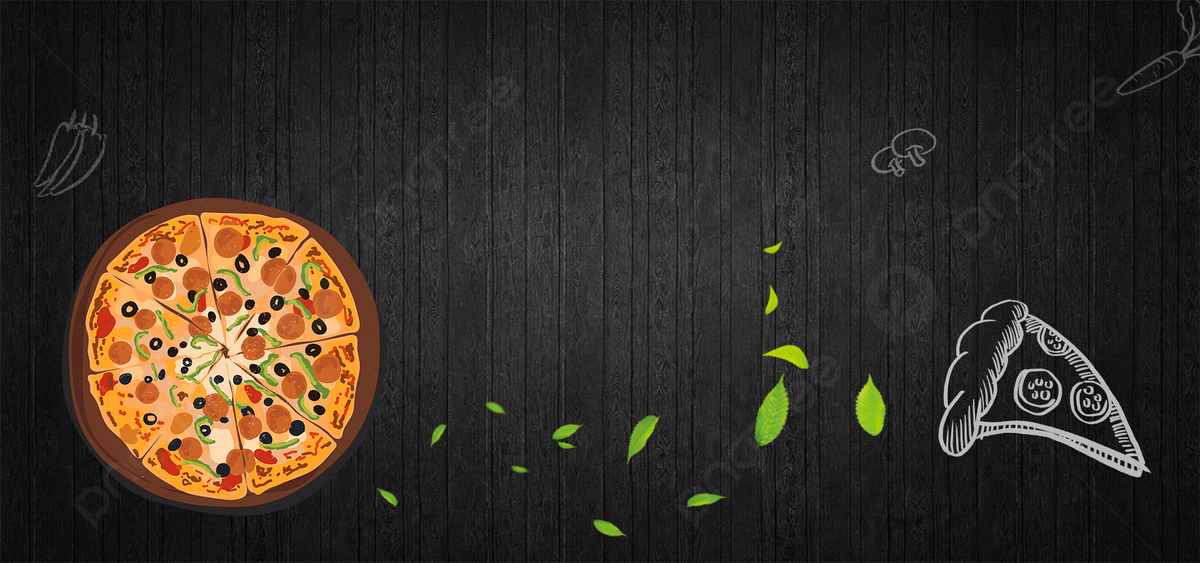
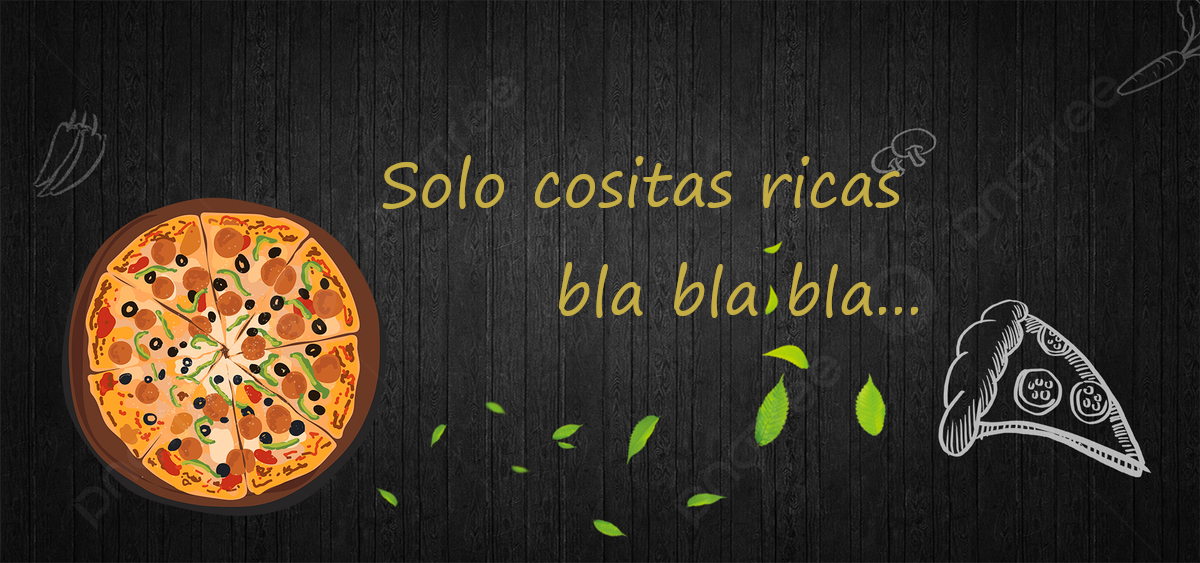
Version 0.2

Changed region(s): [[0.3083, 0.2718, 0.7708, 0.3925], [0.4625, 0.4529, 0.7708, 0.5737]]

diff --git a/index.html b/index.html
@@ -1,27 +1,29 @@
 <!DOCTYPE html>
-<html lang="en">
+<html lang="es">
 <head>
     <meta charset="UTF-8">
     <meta name="viewport" content="width=device-width, initial-scale=1.0">
     <link rel="stylesheet" href="style.css">
-    <title>Document</title>
+    <link rel="stylesheet" href="https://cdnjs.cloudflare.com/ajax/libs/font-awesome/6.0.0-beta3/css/all.min.css">
+    <title>Pizzarriba</title>
 </head>
 <body>
+    <img class="background" src="img/backgroung.png" alt="">
     <header>
         <div><a href="index.html"><img class="logo" src="img/logo.png" alt=""></a></div>
         <nav>
             <ul>
-                <li><a href="">Menu</a></li>
-                <li><a href="">Pedinos</a></li>
-                <li><a href="">Nosotros</a></li>
-                <li><a href="">Contacto</a></li>
+                <li><a href="#">Menu</a></li>
+                <li><a href="#">Pedinos</a></li>
+                <li><a href="#">Nosotros</a></li>
+                <li><a href="#pie">Contacto</a></li>
             </ul>
         </nav>
     </header>
 
     <main>
        <section class="galeria">
-            <h2>Cositas ricas</h2>
+            
             <div class="slider">    
                 <div class="slider--iner">
                     <img src="img/slide_3.png" alt="">
@@ -34,20 +36,20 @@
         <section class="promos">
             <h2>Promos</h2>
             <div class="cards">
-                <div class="card">
+                <div class="card-1">
                     <p>Familiar</p>
-                    <a href="#"><img src="img/promo_1.png" alt=""></a>
+                    <a href="#familiar"><img src="img/promo_1.png" alt=""></a>
                 </div>
-                <div class="card">
+                <div class="card-2">
                     <p>Para 2</p>
                     <a href="#"><img src="img/promo_2.png" alt=""></a>
                 </div>
-                <div class="card">
+                <div class="card-3">
                     <p>Bajonera</p>
                     <a href="#"><img src="img/promo_3.png" alt=""></a>
                 </div>
-                <div class="card">
-                    <p>Bebida</p>
+                <div class="card-4">
+                    <p>Bebidas</p>
                     <a href="#"><img src="img/promo_4.png" alt=""></a>
                 </div>
             </div>
@@ -81,9 +83,12 @@
         </section>
     </main>
 
-    <footer>
-
+    <footer id="pie" class="social-media">
+        <div class="fb"><i class="fa-brands fa-square-facebook"></i><span>Pizzarriba</span></div>
+        <div class="ig"><i class="fa-brands fa-square-instagram"></i><span>Pizzarriba</span></div>
+        <div class="wpp"><i class="fa-brands fa-whatsapp"></i><span>0123456789</span></div>
     </footer>
     <script src="script.js"></script>
+    <script src="https://kit.fontawesome.com/36af3a04fe.js" crossorigin="anonymous"></script>
 </body>
 </html>

diff --git a/style.css b/style.css
@@ -5,10 +5,11 @@
     text-decoration: none;
     list-style: none;
 }
-body {
-    background: url(img/backgroung.png), no-repeat;
-    background-size: cover;
-    overflow-x: hidden;
+.background {
+    position: fixed;
+    width: 100vw;
+    height: 100vh;
+    z-index: -1;
 }
 
 header {
@@ -19,6 +20,10 @@ header {
     background-color: rgba(0, 0, 0, 0.9);
     align-items: center;
     justify-content: center;
+}
+
+i, p, span {
+    color: rgb(239, 221, 21);
 }
 
 .logo {
@@ -45,7 +50,7 @@ main {
 
 h2 {
     color: white;
-    margin: 5px;
+    margin: 10px;
     text-align: center;
 }
 
@@ -62,6 +67,7 @@ p {
 }
 
 .slider {
+    margin-top: 20px;
     display: flex;
     width: 90vw;
     justify-content: center;
@@ -85,15 +91,20 @@ img {
     flex-wrap: wrap;
     justify-content: center;
 }
-.card {
+.card-1, .card-2, .card-3, .card-4 {
     display: flex;
     flex-direction: column;
     align-items: center;
-    width: 45vw;
-    height: 45vw;
+    width: 40vw;
+    height: 40vw;
     margin: 10px;
     background-color: rgba(0, 0, 0, 0.9);
     overflow: hidden;
+    transition: transform 0.3s ease-in;
+}
+
+.card:hover {
+    transform: scale(1.3);
 }
 
 .comentarios {
@@ -115,20 +126,52 @@ img {
 }
 
 .commit img {
-    width: 70px;
+    width: 50px;
+    margin: 10px;
 }
 
-footer {
+.social-media {
+    display: flex;
+    align-items: center;
+    justify-content: space-around;
     position: fixed;
     bottom: 0;
     width: 100vw;
     height: 30px;
     background-color: rgba(0, 0, 0, 0.9);
     margin-top: 35px;
+    transition: background-color 1s ease;
+
 }
+
+.fa-brands {
+    margin: 10px;
+}
+
+.social-media:target {
+    animation: bounce 5s ease-in;    
+}
+
+/* .social-media:target div span, .social-media:target div i {
+    color: rgb(239, 221, 21)
+} */
+
+@keyframes bounce {
+    0%, 100% {
+        transform: translateY(0);
+        
+        
+    }
+    30%, 70% {
+        transform: translateY(-50vh);
+        background-color: #f0f0f0;
+    }
+    
+}
+
 @media (min-width: 750px){
     .slider {
         width: 600px;
-        overflow: ;
+        
     }
 }

diff --git a/prueba.html b/prueba.html
@@ -1,0 +1,23 @@
+<!DOCTYPE html>
+<html lang="en">
+<head>
+    <meta charset="UTF-8">
+    <meta name="viewport" content="width=device-width, initial-scale=1.0">
+    <title>Cambiar Estilo con :target</title>
+    <link rel="stylesheet" href="prueba.css">
+</head>
+<body>
+    <div class="content">
+        <a href="#section1">Ir a la Sección 1</a>
+        <a href="#section2">Ir a la Sección 2</a>
+    </div>
+    <div id="section1" class="section">
+        <h2>Sección 1</h2>
+        <p>Contenido de la sección 1.</p>
+    </div>
+    <div id="section2" class="section">
+        <h2>Sección 2</h2>
+        <p>Contenido de la sección 2.</p>
+    </div>
+</body>
+</html>

diff --git a/prueba.css b/prueba.css
@@ -1,0 +1,22 @@
+/* Estilos generales */
+body {
+    font-family: Arial, sans-serif;
+    margin: 0;
+    padding: 20px;
+}
+
+.content {
+    margin-bottom: 20px;
+}
+
+.section {
+    padding: 20px;
+    margin: 20px 0;
+    border: 1px solid #ccc;
+    transition: background-color 0.3s ease, transform 0.3s ease;
+}
+
+.section:target {
+    background-color: #f0f0f0;
+    transform: translateY(20px); /* Ajusta este valor según lo que necesites */
+}
